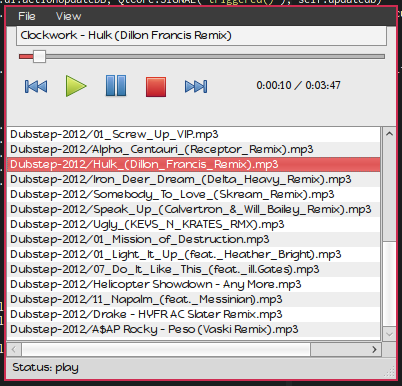
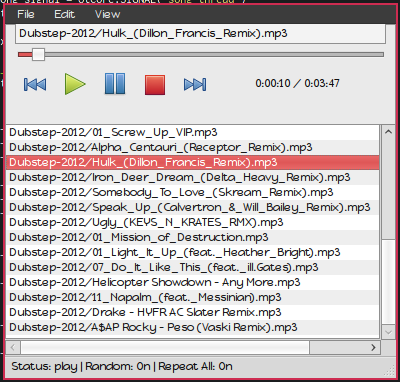
Added random and repeat modes and default keybindings

diff --git a/ui/wind.py b/ui/wind.py
@@ -2,7 +2,7 @@
 
 # Form implementation generated from reading ui file 'wind.ui'
 #
-# Created: Thu Apr 19 16:33:35 2012
+# Created: Thu Apr 19 20:48:15 2012
 #      by: PyQt4 UI code generator 4.9.1
 #
 # WARNING! All changes made in this file will be lost!
@@ -127,6 +127,8 @@ class Ui_MainWindow(object):
         self.menuFile.setObjectName(_fromUtf8("menuFile"))
         self.menuView = QtGui.QMenu(self.menubar)
         self.menuView.setObjectName(_fromUtf8("menuView"))
+        self.menuEdit = QtGui.QMenu(self.menubar)
+        self.menuEdit.setObjectName(_fromUtf8("menuEdit"))
         MainWindow.setMenuBar(self.menubar)
         self.statusbar = QtGui.QStatusBar(MainWindow)
         self.statusbar.setObjectName(_fromUtf8("statusbar"))
@@ -141,6 +143,22 @@ class Ui_MainWindow(object):
         self.actionLibrary.setObjectName(_fromUtf8("actionLibrary"))
         self.actionViewCurrentSong = QtGui.QAction(MainWindow)
         self.actionViewCurrentSong.setObjectName(_fromUtf8("actionViewCurrentSong"))
+        self.actionRepeatAll = QtGui.QAction(MainWindow)
+        self.actionRepeatAll.setCheckable(True)
+        self.actionRepeatAll.setObjectName(_fromUtf8("actionRepeatAll"))
+        self.actionRandom = QtGui.QAction(MainWindow)
+        self.actionRandom.setCheckable(True)
+        self.actionRandom.setObjectName(_fromUtf8("actionRandom"))
+        self.actionPlay = QtGui.QAction(MainWindow)
+        self.actionPlay.setObjectName(_fromUtf8("actionPlay"))
+        self.actionPause = QtGui.QAction(MainWindow)
+        self.actionPause.setObjectName(_fromUtf8("actionPause"))
+        self.actionStop = QtGui.QAction(MainWindow)
+        self.actionStop.setObjectName(_fromUtf8("actionStop"))
+        self.actionNext = QtGui.QAction(MainWindow)
+        self.actionNext.setObjectName(_fromUtf8("actionNext"))
+        self.actionPrevious = QtGui.QAction(MainWindow)
+        self.actionPrevious.setObjectName(_fromUtf8("actionPrevious"))
         self.menuFile.addAction(self.actionUpdateDB)
         self.menuFile.addSeparator()
         self.menuFile.addAction(self.actionQuit)
@@ -148,7 +166,16 @@ class Ui_MainWindow(object):
         self.menuView.addAction(self.actionLibrary)
         self.menuView.addSeparator()
         self.menuView.addAction(self.actionViewCurrentSong)
+        self.menuEdit.addAction(self.actionPlay)
+        self.menuEdit.addAction(self.actionPause)
+        self.menuEdit.addAction(self.actionStop)
+        self.menuEdit.addAction(self.actionNext)
+        self.menuEdit.addAction(self.actionPrevious)
+        self.menuEdit.addSeparator()
+        self.menuEdit.addAction(self.actionRepeatAll)
+        self.menuEdit.addAction(self.actionRandom)
         self.menubar.addAction(self.menuFile.menuAction())
+        self.menubar.addAction(self.menuEdit.menuAction())
         self.menubar.addAction(self.menuView.menuAction())
 
         self.retranslateUi(MainWindow)
@@ -164,8 +191,9 @@ class Ui_MainWindow(object):
         MainWindow.setWindowTitle(QtGui.QApplication.translate("MainWindow", "musicroxx", None, QtGui.QApplication.UnicodeUTF8))
         self.menuFile.setTitle(QtGui.QApplication.translate("MainWindow", "File", None, QtGui.QApplication.UnicodeUTF8))
         self.menuView.setTitle(QtGui.QApplication.translate("MainWindow", "View", None, QtGui.QApplication.UnicodeUTF8))
+        self.menuEdit.setTitle(QtGui.QApplication.translate("MainWindow", "Edit", None, QtGui.QApplication.UnicodeUTF8))
         self.actionUpdateDB.setText(QtGui.QApplication.translate("MainWindow", "Update DB", None, QtGui.QApplication.UnicodeUTF8))
-        self.actionUpdateDB.setShortcut(QtGui.QApplication.translate("MainWindow", "Ctrl+U", None, QtGui.QApplication.UnicodeUTF8))
+        self.actionUpdateDB.setShortcut(QtGui.QApplication.translate("MainWindow", "U", None, QtGui.QApplication.UnicodeUTF8))
         self.actionQuit.setText(QtGui.QApplication.translate("MainWindow", "Quit", None, QtGui.QApplication.UnicodeUTF8))
         self.actionQuit.setShortcut(QtGui.QApplication.translate("MainWindow", "Ctrl+Q", None, QtGui.QApplication.UnicodeUTF8))
         self.actionViewPlaylist.setText(QtGui.QApplication.translate("MainWindow", "Playlist", None, QtGui.QApplication.UnicodeUTF8))
@@ -174,4 +202,18 @@ class Ui_MainWindow(object):
         self.actionLibrary.setShortcut(QtGui.QApplication.translate("MainWindow", "Ctrl+L", None, QtGui.QApplication.UnicodeUTF8))
         self.actionViewCurrentSong.setText(QtGui.QApplication.translate("MainWindow", "Current Song", None, QtGui.QApplication.UnicodeUTF8))
         self.actionViewCurrentSong.setShortcut(QtGui.QApplication.translate("MainWindow", "Ctrl+Shift+U", None, QtGui.QApplication.UnicodeUTF8))
+        self.actionRepeatAll.setText(QtGui.QApplication.translate("MainWindow", "Repeat", None, QtGui.QApplication.UnicodeUTF8))
+        self.actionRepeatAll.setShortcut(QtGui.QApplication.translate("MainWindow", "R", None, QtGui.QApplication.UnicodeUTF8))
+        self.actionRandom.setText(QtGui.QApplication.translate("MainWindow", "Random", None, QtGui.QApplication.UnicodeUTF8))
+        self.actionRandom.setShortcut(QtGui.QApplication.translate("MainWindow", "Z", None, QtGui.QApplication.UnicodeUTF8))
+        self.actionPlay.setText(QtGui.QApplication.translate("MainWindow", "Play", None, QtGui.QApplication.UnicodeUTF8))
+        self.actionPlay.setShortcut(QtGui.QApplication.translate("MainWindow", "Return", None, QtGui.QApplication.UnicodeUTF8))
+        self.actionPause.setText(QtGui.QApplication.translate("MainWindow", "Pause", None, QtGui.QApplication.UnicodeUTF8))
+        self.actionPause.setShortcut(QtGui.QApplication.translate("MainWindow", "Shift+P", None, QtGui.QApplication.UnicodeUTF8))
+        self.actionStop.setText(QtGui.QApplication.translate("MainWindow", "Stop", None, QtGui.QApplication.UnicodeUTF8))
+        self.actionStop.setShortcut(QtGui.QApplication.translate("MainWindow", "S", None, QtGui.QApplication.UnicodeUTF8))
+        self.actionNext.setText(QtGui.QApplication.translate("MainWindow", "Next", None, QtGui.QApplication.UnicodeUTF8))
+        self.actionNext.setShortcut(QtGui.QApplication.translate("MainWindow", ">", None, QtGui.QApplication.UnicodeUTF8))
+        self.actionPrevious.setText(QtGui.QApplication.translate("MainWindow", "Previous", None, QtGui.QApplication.UnicodeUTF8))
+        self.actionPrevious.setShortcut(QtGui.QApplication.translate("MainWindow", "<", None, QtGui.QApplication.UnicodeUTF8))
 

diff --git a/musicroxx.py b/musicroxx.py
@@ -54,6 +54,12 @@ class Song(object):
   def get_position(self):
     return self.song_length.split(':')[0]
 
+class State(object):
+  def __init__(self, mpd_state, random, repeat_all):
+    self.mpd_state = mpd_state
+    self.random = random
+    self.repeat_all = repeat_all
+
 # Handles all calls to MPD
 class MPD(object):
   def __init__(self):
@@ -72,6 +78,24 @@ class MPD(object):
     except socket.error:
       print "Could not connect to MPD"
       exit(1)
+
+  def toggle_repeat_all(self, state):
+    self.connect()
+    if state.repeat_all:
+      state.repeat_all = 0
+      self.client.repeat(0)
+    else:
+      state.repeat_all = 1
+      self.client.repeat(1)
+
+  def toggle_random(self, state):
+    self.connect()
+    if state.random:
+      state.random = 0
+      self.client.random(0)
+    else:
+      state.random = 1
+      self.client.random(1)
 
   def update_db(self):
     self.connect()
@@ -125,6 +149,7 @@ class MainWindow(QtGui.QMainWindow):
     self.ui.playlist.setVisible(False)
     self.song_label_type = SHOW_FILENAME
     self.current_song = None
+    self.current_state = None
 
     self.init_signals()
 
@@ -150,8 +175,24 @@ class MainWindow(QtGui.QMainWindow):
         QtCore.SIGNAL("triggered()"), self.view_playlist)
     QtCore.QObject.connect(self.ui.actionUpdateDB, \
         QtCore.SIGNAL("triggered()"), self.client.update_db)
-    QtCore.QObject.connect(self.ui.actionViewCurrentSong,\
+    QtCore.QObject.connect(self.ui.actionViewCurrentSong, \
         QtCore.SIGNAL("triggered()"), self.highlight_current_song)
+    QtCore.QObject.connect(self.ui.actionRepeatAll, \
+        QtCore.SIGNAL("triggered()"), self.toggle_repeat_all)
+    QtCore.QObject.connect(self.ui.actionRandom, \
+        QtCore.SIGNAL("triggered()"), self.toggle_random)
+
+    # Menu items same as buttons
+    QtCore.QObject.connect(self.ui.actionPlay, \
+        QtCore.SIGNAL("triggered()"), self.client.play)
+    QtCore.QObject.connect(self.ui.actionStop, \
+        QtCore.SIGNAL("triggered()"), self.client.stop)
+    QtCore.QObject.connect(self.ui.actionPause, \
+        QtCore.SIGNAL("triggered()"), self.client.pause)
+    QtCore.QObject.connect(self.ui.actionNext, \
+        QtCore.SIGNAL("triggered()"), self.client.next)
+    QtCore.QObject.connect(self.ui.actionPrevious, \
+        QtCore.SIGNAL("triggered()"), self.client.previous)
 
     # Playlist
     QtCore.QObject.connect(self.ui.playlist, \
@@ -165,6 +206,12 @@ class MainWindow(QtGui.QMainWindow):
         self.act_state)
 
     self.thread.start()
+
+  def toggle_repeat_all(self):
+    self.client.toggle_repeat_all(self.current_state)
+
+  def toggle_random(self):
+    self.client.toggle_random(self.current_state)
 
   def act_song(self, song):
     # Song label
@@ -192,7 +239,24 @@ class MainWindow(QtGui.QMainWindow):
 
   #TODO: change state to more readable variation such as playing, paused, etc.
   def act_state(self, state):
-    self.ui.statusbar.showMessage("Status: %s" % (state))
+    self.current_state = state
+
+    if state.repeat_all:
+      repeat_all = "On"
+      self.ui.actionRepeatAll.setChecked(True)
+    else:
+      repeat_all = "Off"
+      self.ui.actionRepeatAll.setChecked(False)
+
+    if state.random:
+      random = "On"
+      self.ui.actionRandom.setChecked(True)
+    else:
+      random = "Off"
+      self.ui.actionRandom.setChecked(False)
+
+    self.ui.statusbar.showMessage("Status: %s | Random: %s | Repeat All: %s" \
+        % (state.mpd_state, random, repeat_all))
 
   #TODO: I'm sure this could be majorly cleaned up..
   def act_playlist(self, force=False):
@@ -241,7 +305,6 @@ class retrieve_information(QtCore.QThread):
     QtCore.QThread.__init__(self, parent)
 
     self.client = MPD()
-    self.songs = []
 
     self.song_signal = QtCore.SIGNAL("song_thread")
     self.state_signal = QtCore.SIGNAL("state_thread")
@@ -251,7 +314,6 @@ class retrieve_information(QtCore.QThread):
   def song_info(self):
     current_song = self.client.currentsong()
     status = self.client.status()
-
     try:
       song_artist = current_song['artist']
       song_title = current_song['title']
@@ -272,12 +334,17 @@ class retrieve_information(QtCore.QThread):
       song_id = -1
 
     try:
-      state = status['state']
+      mpd_state = status['state']
+      repeat_all = int(status['repeat'])
+      random = int(status['random'])
     except KeyError:
-      state = 'error'
+      mpd_state = 'error'
+      repeat_all = False
+      random = False
 
     #TODO: add in tiny no overhead db to store this stuff
     song = Song(song_id, song_artist, song_title, song_filename, song_length)
+    state = State(mpd_state, random, repeat_all)
     self.emit(self.song_signal, song)
     self.emit(self.state_signal, state)
 
